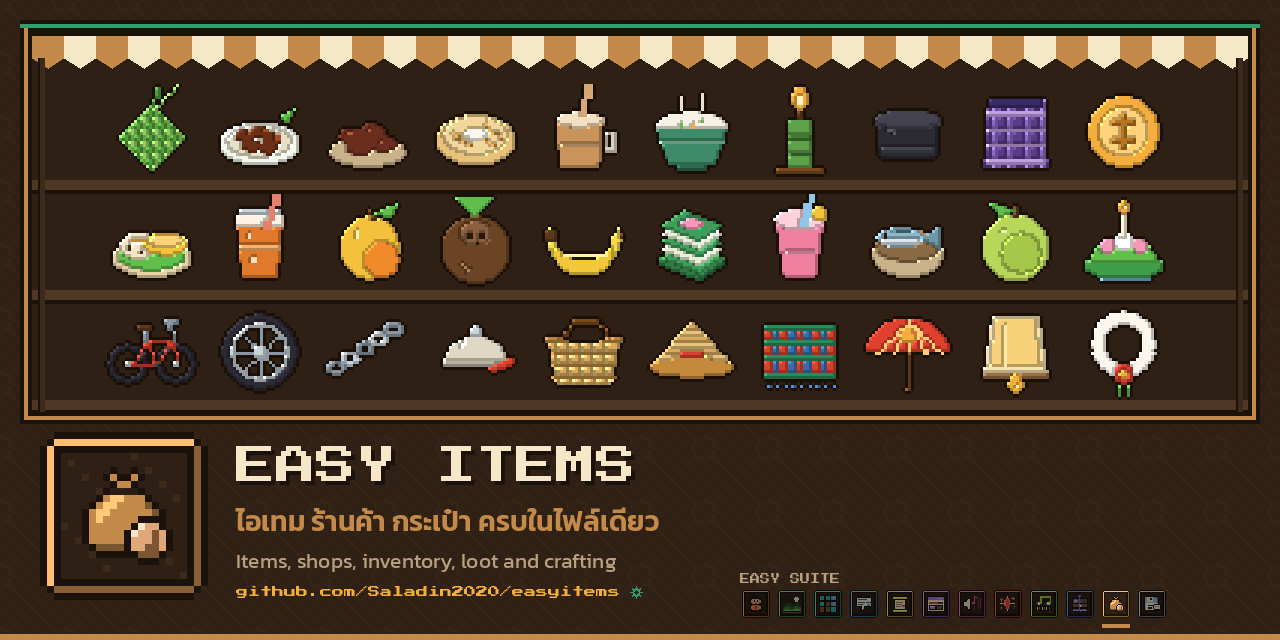
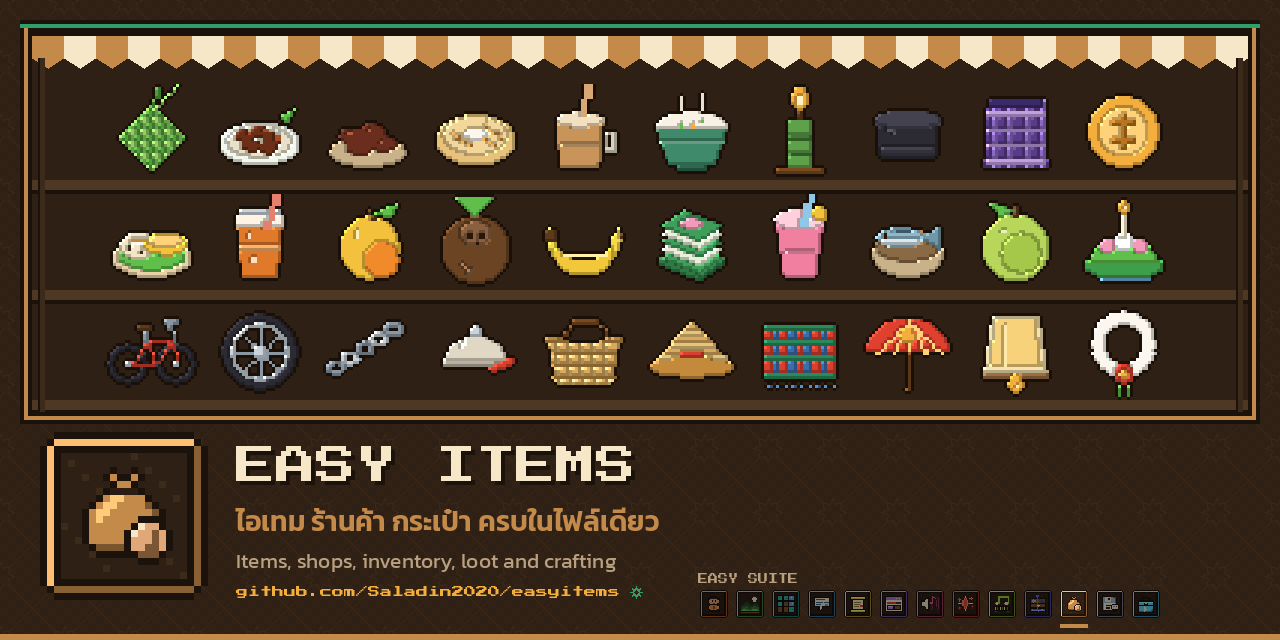
docs: Easy Suite is thirteen tools — 13-tool header strip, suite table and brand assets (adds Easy Kit)

Changed region(s): [[0.5312, 0.875, 0.9375, 1.0]]

diff --git a/docs/brand/README.md b/docs/brand/README.md
@@ -1,7 +1,7 @@
 # Easy Suite brand assets
 
 Generated by the Easy Suite brand scripts (`easy-suite-brand/items_v2.py` on top of `suite12_v2.py`). Same frame,
-palette and fonts across all twelve tools; only the icon and accent colour change. Easy Items uses bronze
+palette and fonts across all thirteen tools; only the icon and accent colour change. Easy Items uses bronze
 `#c48a4a` and a cloth pouch with a coin; its banner and social art are a market stall stocked with real Easy Items
 icons (Raya bazaar shelf, Thai market shelf, bicycle and gear shelf).
 
